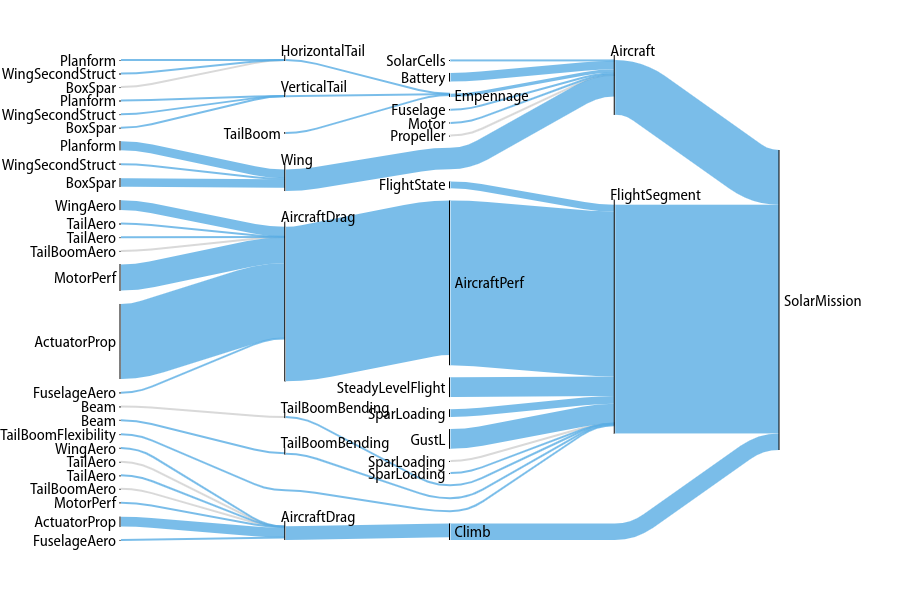
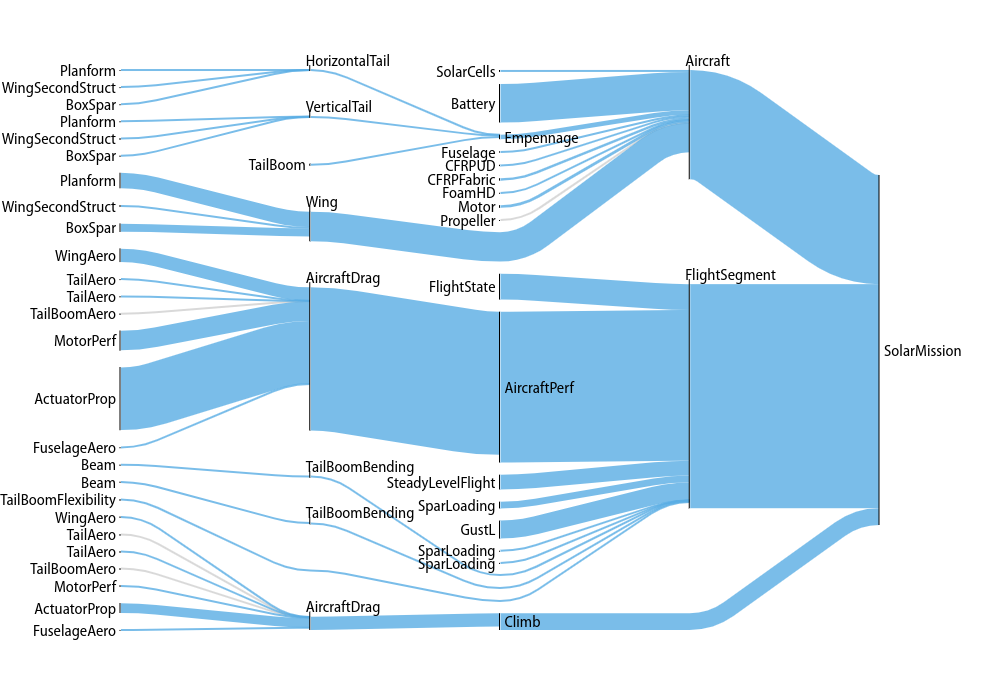
add constant senss to model sankey

diff --git a/gpkit/interactive/sankey.py b/gpkit/interactive/sankey.py
@@ -32,6 +32,7 @@ class Sankey:
 
     def __init__(self, solution, constraintset, leftlabel=None):
         self.csenss = solution["sensitivities"]["constraints"]
+        self.vsenss = solution["sensitivities"]["variables"]
         self.cset = constraintset
         if leftlabel is None:
             leftlabel = lineagestr(self.cset) or self.cset.__class__.__name__
@@ -56,6 +57,9 @@ class Sankey:
             switchedtarget = target
             target = self.add_node(target, cset.lineage[-1][0], "namedmodel")
             depth += 1
+            if not var:
+                for vk in cset.unique_varkeys:
+                    total_sens += -abs(self.vsenss.get(vk, 0))
         elif depth == 0:
             depth += 1  # to make top-level named models look right
         elif isinstance(cset, ArrayConstraint) and cset.constraints.size > 1:
@@ -132,7 +136,7 @@ class Sankey:
                          lambda s, t, v: "subarray" not in self.nodes[s])
         self.filterlinks("all constraints",
                          lambda s, t, v: "constraint" not in self.nodes[s],
-                         forced=constraints)
+                         forced=not constraints)
         self.filterlinks("constraint labels",
                          lambda s, t, v: "constraintlabel" not in self.nodes[s])
 

diff --git a/docs/source/visint.rst b/docs/source/visint.rst
@@ -117,8 +117,9 @@ Models
 When created without a variable, the diagram shows the sensitivity of
 every named model to becoming locally easier. Because derivatives are
 additive, these sensitivities are too: a model's sensitivity is equal to
-the sum of its constraints' sensitivities. Gray lines in this diagram
-indicate models without any tight constraints.
+the sum of its constraints' sensitivities and the magnitude of its
+fixed-variable sensitivities. Gray lines in this diagram indicate models
+without any tight constraints or sensitive fixed variables.
 
 .. code:: python
 
